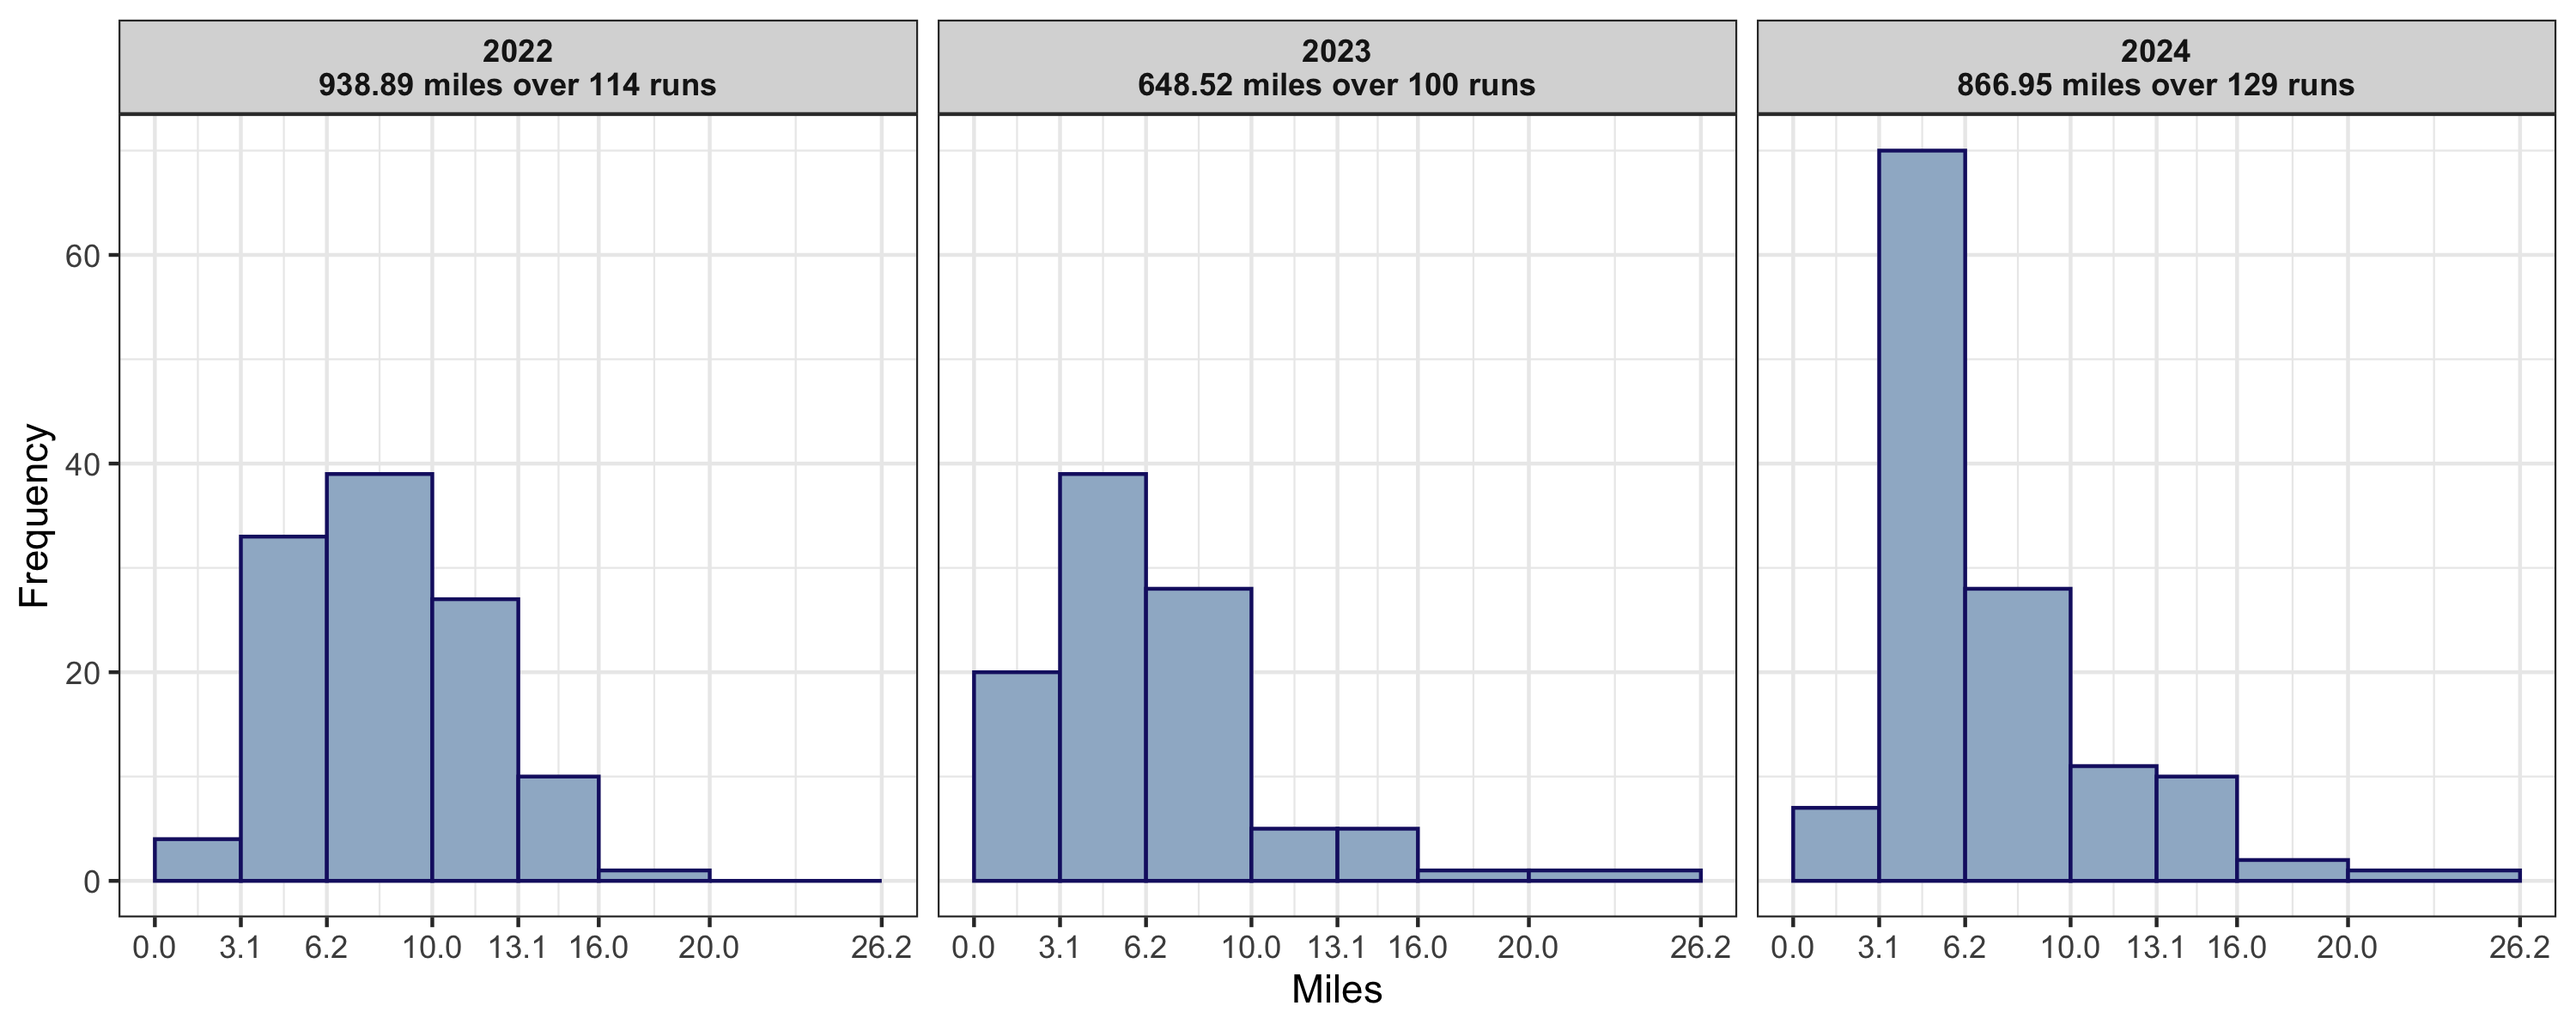
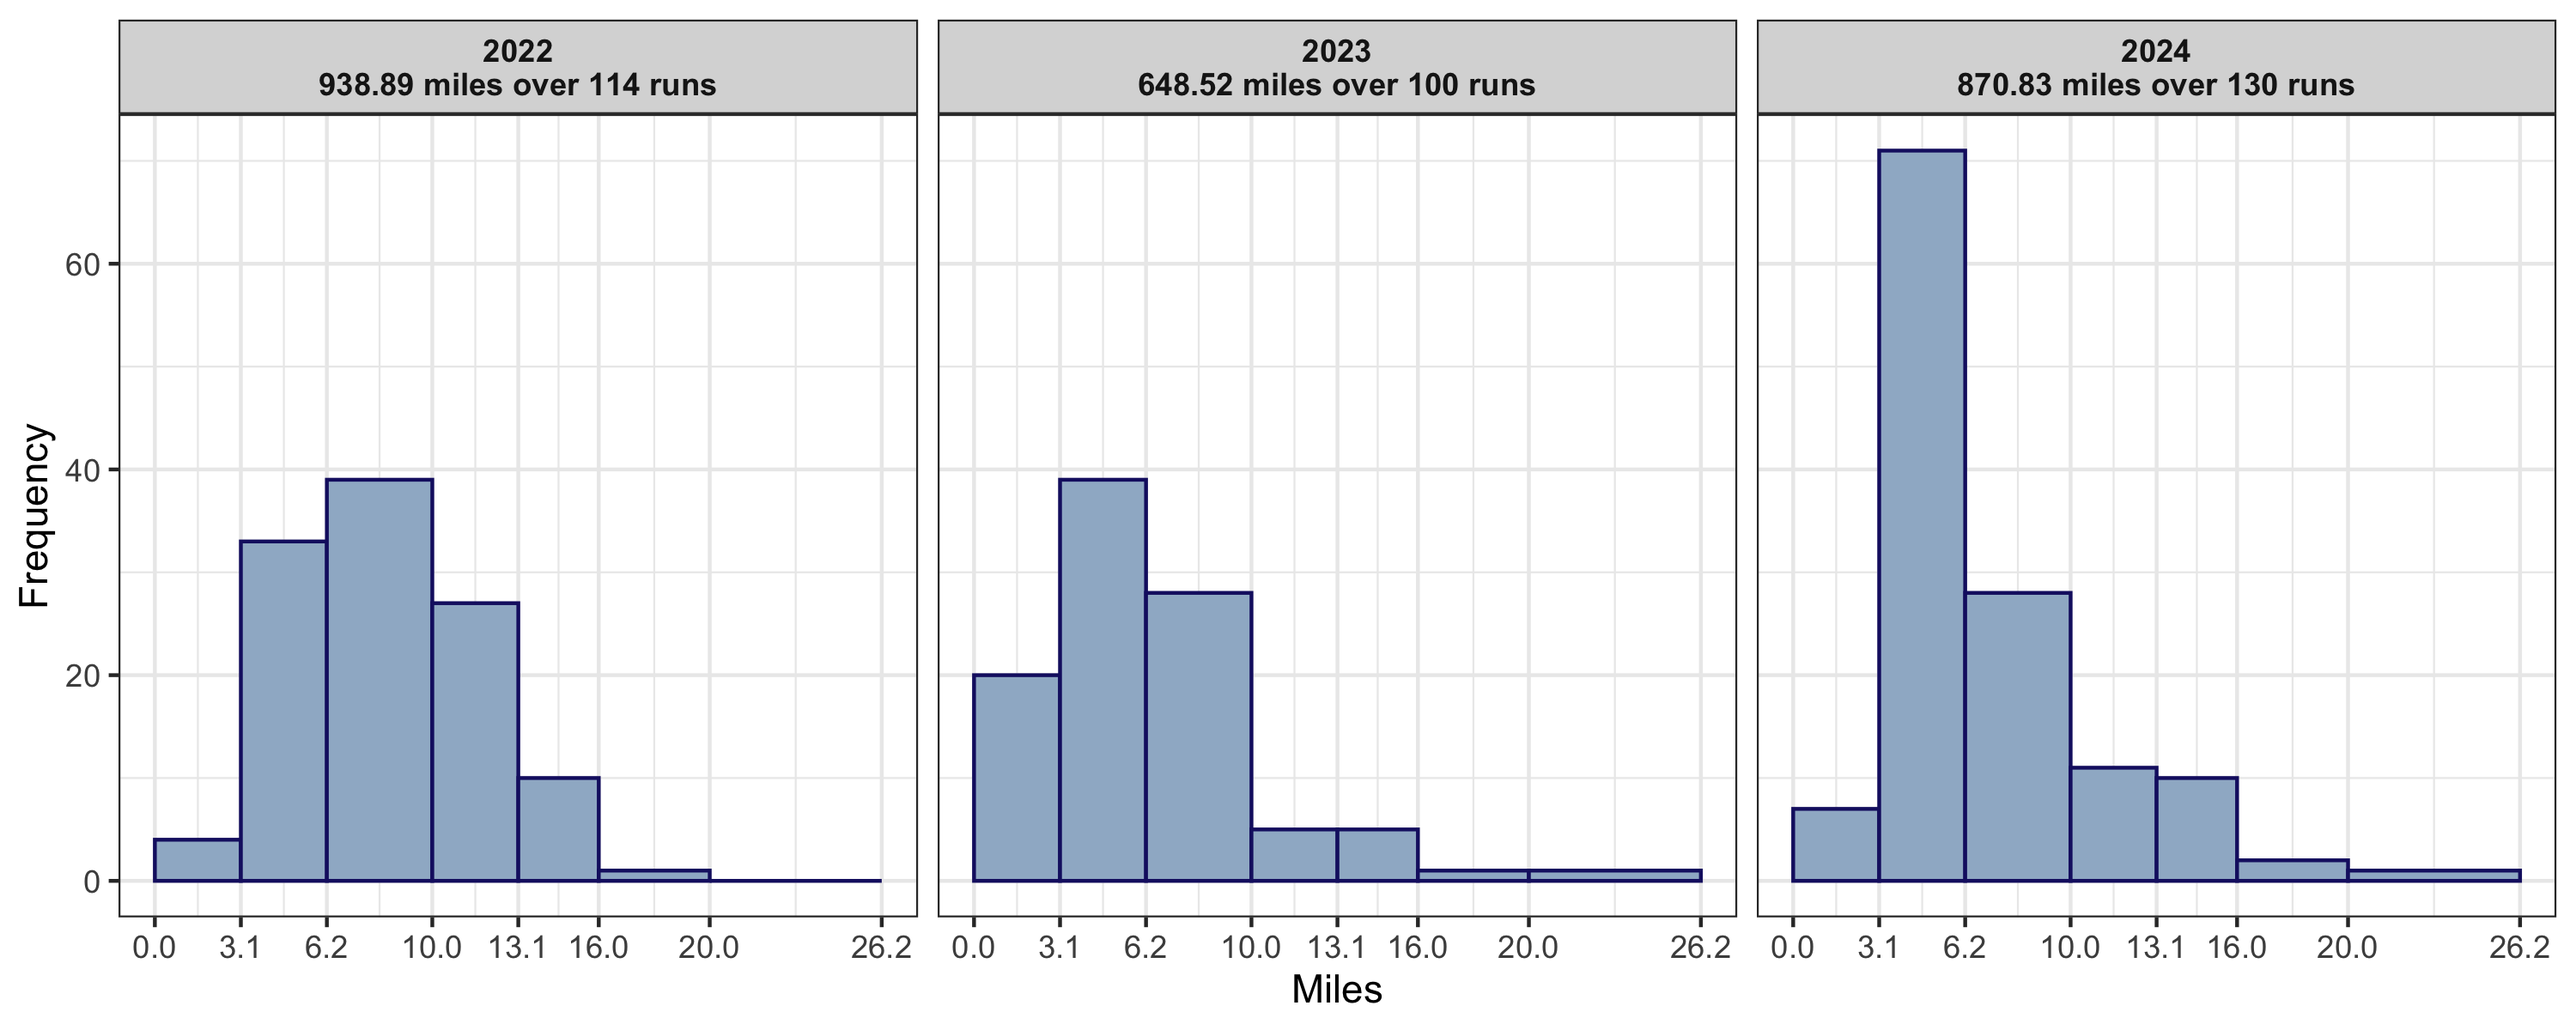
11/8/24

diff --git a/README.md b/README.md
@@ -46,7 +46,7 @@ Total miles since 11/29/21:
 sum(runningData$Miles)
 ```
 
-    ## [1] 2524.81
+    ## [1] 2528.69
 
 Average distance over last ten runs:
 
@@ -54,4 +54,4 @@ Average distance over last ten runs:
 mean(tail(runningData$Miles, 10))
 ```
 
-    ## [1] 11.061
+    ## [1] 10.907
